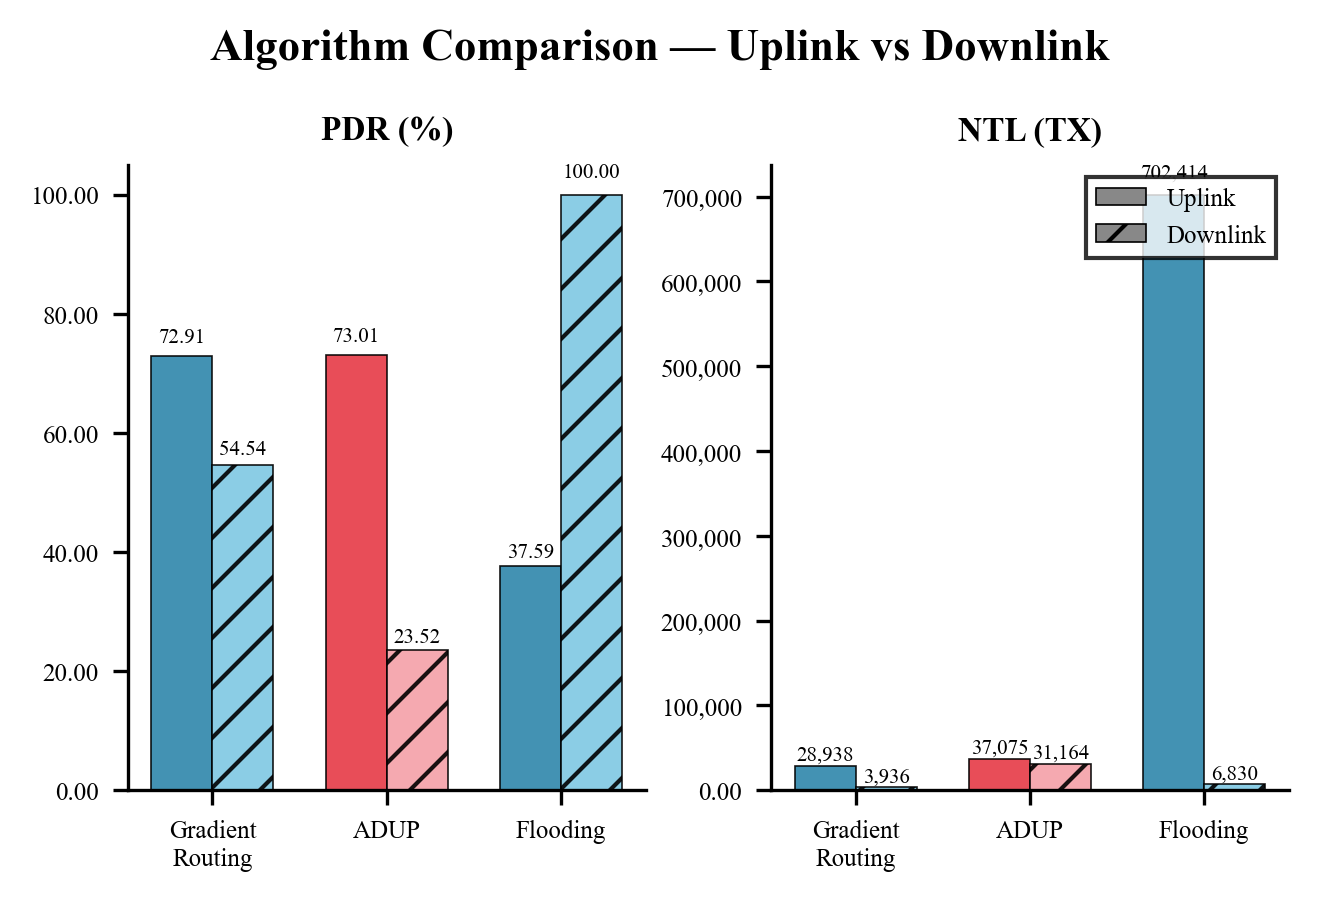
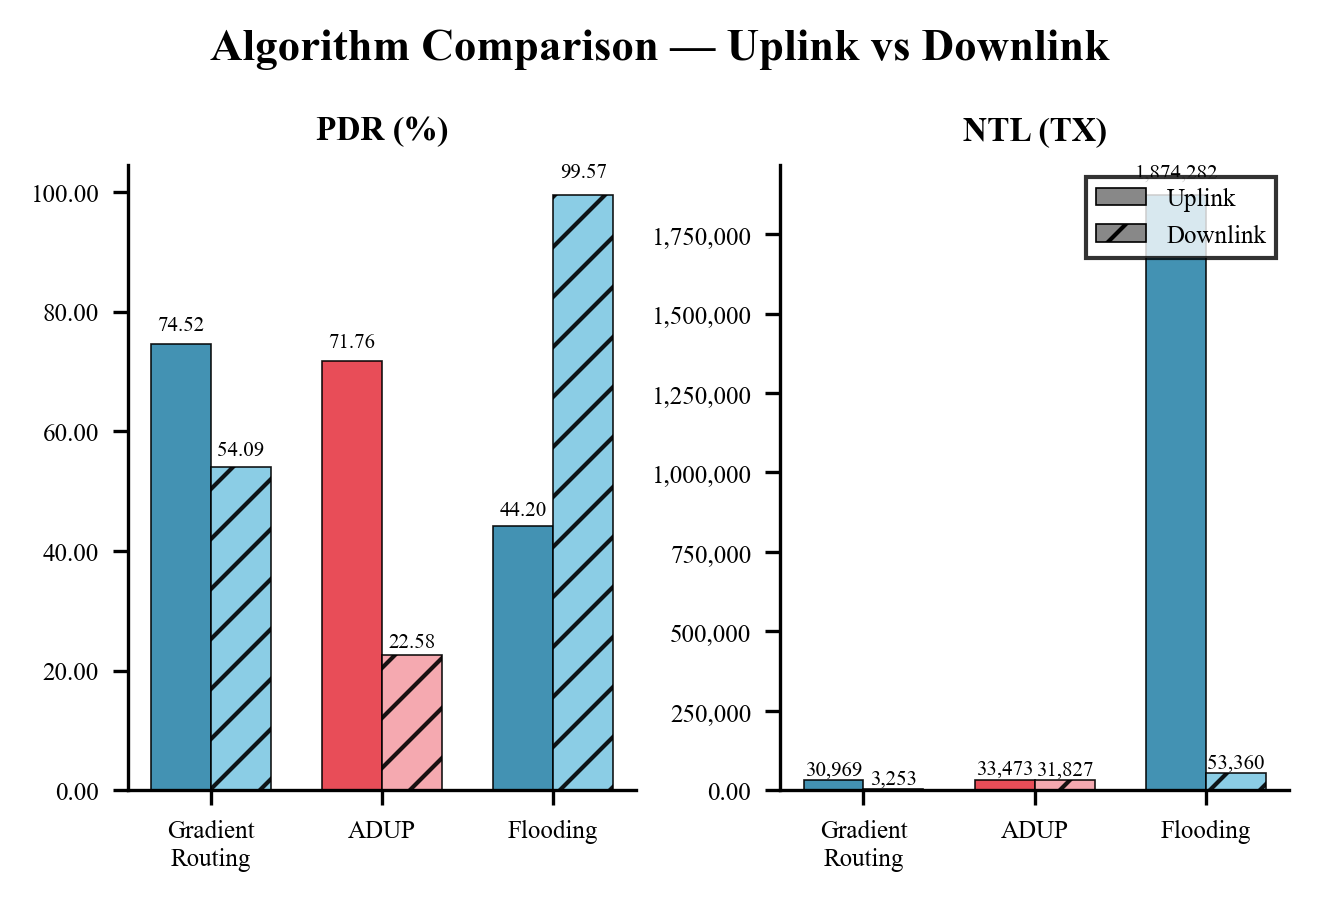
update

diff --git a/models/channel.py b/models/channel.py
@@ -6,14 +6,18 @@ class RicianChannelModel:
     """Indoor Rician Fading channel model backed by a pre-computed LUT.
 
     Requirements: 3.1, 3.2, 3.3, 3.4, 3.5
+
+    Collision model:
+    Trong thực tế BLE/IEEE 802.15.4, khi nhiều node phát đồng thời trên cùng
+    kênh, xác suất collision tăng theo số lượng transmitter đồng thời.
+    success_prob *= collision_penalty ^ n_interferers
     """
 
-    def __init__(self, lut_path: str):
-        """Load the LUT from *lut_path*.
-
-        Raises:
-            FileNotFoundError: if the file does not exist.
-            ValueError: if required columns are missing.
+    def __init__(self, lut_path: str, collision_penalty: float = 0.85):
+        """
+        collision_penalty: hệ số giảm success_prob cho mỗi interferer đồng thời.
+                           0.85 ≈ thực nghiệm BLE Mesh indoor.
+                           1.0  = tắt collision model (lý tưởng).
         """
         try:
             df = pd.read_csv(lut_path)
@@ -28,10 +32,11 @@ class RicianChannelModel:
             raise ValueError(f"LUT CSV is missing columns: {missing}")
 
         self._distances: np.ndarray = df["Distance_m"].to_numpy(dtype=float)
-        self._probs: np.ndarray = df["Success_Prob"].to_numpy(dtype=float)
+        self._probs: np.ndarray     = df["Success_Prob"].to_numpy(dtype=float)
+        self._collision_penalty: float = collision_penalty
 
     def get_success_prob(self, distance: float) -> float:
-        """Return the success probability for *distance* via linear interpolation.
+        """Return success probability for distance via linear interpolation.
 
         Returns 0.0 when distance exceeds the maximum value in the LUT.
         Requirements: 3.3, 3.4
@@ -40,11 +45,16 @@ class RicianChannelModel:
             return 0.0
         return float(np.interp(distance, self._distances, self._probs))
 
-    def transmit(self, distance: float) -> bool:
-        """Simulate one transmission attempt at *distance*.
+    def transmit(self, distance: float, concurrent_tx: int = 1) -> bool:
+        """Simulate one transmission attempt.
 
-        Returns True on success, False on failure.
+        concurrent_tx: jumlah transmitter aktif di sekitar receiver pada saat ini,
+                       termasuk sender ini sendiri. Default = 1 (no collision).
+
         Requirements: 3.5
         """
-        prob = self.get_success_prob(distance)
-        return bool(np.random.random() < prob)
+        base_prob = self.get_success_prob(distance)
+        # n_interferers = concurrent transmitters selain sender sendiri
+        n_interferers = max(0, concurrent_tx - 1)
+        effective_prob = base_prob * (self._collision_penalty ** n_interferers)
+        return bool(np.random.random() < effective_prob)

diff --git a/protocols/flooding.py b/protocols/flooding.py
@@ -84,7 +84,9 @@ class FloodingNode:
             if not nb.is_alive():
                 continue
             routing.metrics.record_transmitted(is_hello=False)
-            self.env.process(nb._deliver(self.node, pkt, routing.channel))
+            # clone() copy path và tx_timestamps thành list độc lập,
+            # tránh shared state khi nhiều coroutine chạy song song
+            self.env.process(nb._deliver(self.node, pkt.clone(), routing.channel))
 
     # -----------------------------------------------------------------------
     # Uplink generator
@@ -143,6 +145,10 @@ class FloodingNode:
     # -----------------------------------------------------------------------
 
     def on_receive(self, pkt: DataPacket) -> None:
+        # Chặn: không xử lý gói tin do chính node này sinh ra (loop-back)
+        if pkt.source_id == self.node.id:
+            return
+
         # --- DOWNLINK: packet originated from sink ---
         if pkt.source_id == self.routing.network.sink.id and not self.node.is_sink:
             if self._is_dl_dup(pkt.id):
@@ -151,8 +157,8 @@ class FloodingNode:
 
             # Every non-sink node is a "destination" for broadcast downlink
             pkt.on_forward(self.node.id)
-            self.routing.metrics.record_delivered(
-                pkt.id, self.env.now, hop_count=pkt.hop_count
+            self.routing.metrics.record_bc_delivered(
+                pkt.id, self.node.id, self.env.now
             )
 
             # Keep rebroadcasting so further nodes can also receive
@@ -213,21 +219,8 @@ class FloodingRouting:
             node._on_receive = self._on_receive
 
     def run_setup_phase(self) -> None:
-        from collections import deque
-        sink = self.network.sink
-        sink.gradient_level = 0.0
-        visited: set[int] = {sink.id}
-        q = deque([sink])
-        while q:
-            cur = q.popleft()
-            for nb in cur.neighbors:
-                if nb.id not in visited:
-                    nb.gradient_level = float(cur.gradient_level + 1)
-                    visited.add(nb.id)
-                    q.append(nb)
-        for node in self.network.nodes:
-            if node.id not in visited:
-                node.gradient_level = float("inf")
+        # Flooding thuần túy — không cần khởi tạo topology hay gradient.
+        pass
 
     def start_forwarding(self) -> None:
         for node in self.network.nodes:

diff --git a/main.py b/main.py
@@ -151,7 +151,19 @@ def _print_summary_labeled(cfg, network, metrics: MetricsCollector,
     n_created   = len(raw["created"])
     n_delivered = len(raw["delivered"])
     n_dropped   = metrics.get_total_drops()
-    total_e     = sum(n.energy_consumed for n in network.nodes)
+    n_non_sink  = sum(1 for n in network.nodes if not n.is_sink)
+
+    is_flooding_downlink = "flooding" in label.lower() and "[downlink]" in label.lower()
+
+    if is_flooding_downlink:
+        pdr      = metrics.get_pdr_broadcast(n_non_sink)
+        bc_count = raw["bc_deliveries_count"]
+        pdr_str  = (f"  PDR (broadcast)   : {pdr:.2f} %"
+                    f"  ({bc_count} node-deliveries / "
+                    f"{n_created} pkts × {n_non_sink} nodes)")
+    else:
+        pdr     = metrics.get_pdr()
+        pdr_str = f"  PDR               : {pdr:.2f} %"
 
     sep  = "=" * 60
     dash = "-" * 60
@@ -163,7 +175,7 @@ def _print_summary_labeled(cfg, network, metrics: MetricsCollector,
     print(f"  Packets delivered : {n_delivered}")
     print(f"  Packets dropped   : {n_dropped}")
     print(dash)
-    print(f"  PDR               : {metrics.get_pdr():.2f} %")
+    print(pdr_str)
     print(f"  NTL (total TX)    : {metrics.get_ntl():,}")
     print(sep)
 
@@ -391,7 +403,10 @@ def compare_algorithms(cfg=settings) -> None:
 
             env     = simpy.Environment()
             network = Network(env, cfg)
-            channel = RicianChannelModel(cfg.LUT_PATH)
+            channel = RicianChannelModel(
+                cfg.LUT_PATH,
+                collision_penalty=getattr(cfg, "COLLISION_PENALTY_PER_TX", 0.85),
+            )
             metrics = MetricsCollector()
             routing = ProtocolClass(network, channel, metrics, cfg)
 
@@ -416,10 +431,15 @@ def compare_algorithms(cfg=settings) -> None:
             _print_summary_labeled(cfg, network, metrics,
                                    f"{label} [{direction}]")
 
+            is_flooding_dl = (label == "Flooding" and direction == "downlink")
+            n_non_sink     = sum(1 for n in network.nodes if not n.is_sink)
+            pdr_val = (metrics.get_pdr_broadcast(n_non_sink)
+                       if is_flooding_dl else metrics.get_pdr())
+
             if label not in results:
                 results[label] = {}
             results[label][direction] = {
-                "pdr":       metrics.get_pdr(),
+                "pdr":       pdr_val,
                 "ntl":       metrics.get_ntl(),
                 "avg_rtt":   metrics.get_avg_rtt(),
                 "avg_hops":  metrics.get_avg_hop_count(),

diff --git a/utils/metrics.py b/utils/metrics.py
@@ -13,6 +13,10 @@ class MetricsCollector:
         self._delivered:  dict[int, float] = {}  # pkt_id → delivery_time
         self._hop_counts: dict[int, int]   = {}  # pkt_id → hop_count on delivery
 
+        # Downlink broadcast tracking (flooding-specific, không ảnh hưởng PDR chính)
+        # (pkt_id, node_id) → delivery_time — đếm số node duy nhất nhận được mỗi gói
+        self._bc_deliveries: dict[tuple, float] = {}
+
         # Transmission counter (all attempts: HELLO + DATA, success + fail)
         self._total_transmissions: int = 0
 
@@ -50,6 +54,14 @@ class MetricsCollector:
         self._delivered[packet_id] = delivery_time
         self._hop_counts[packet_id] = hop_count
 
+    def record_bc_delivered(self, packet_id: int, node_id: int,
+                             delivery_time: float) -> None:
+        """Broadcast downlink delivery — mỗi (pkt_id, node_id) chỉ tính 1 lần.
+        Dùng riêng cho flooding downlink, không ảnh hưởng get_pdr()."""
+        key = (packet_id, node_id)
+        if key not in self._bc_deliveries:
+            self._bc_deliveries[key] = delivery_time
+
     def record_drop(self, reason: str) -> None:
         key = reason if reason in self._drops else "other"
         self._drops[key] += 1
@@ -66,6 +78,17 @@ class MetricsCollector:
         if not self._created:
             return 0.0
         return len(self._delivered) / len(self._created) * 100.0
+
+    def get_pdr_broadcast(self, num_non_sink_nodes: int) -> float:
+        """PDR cho broadcast downlink: unique (pkt_id, node_id) nhận được
+        chia cho (số gói tạo ra × số non-sink node).
+        Chỉ có ý nghĩa khi dùng với flooding downlink."""
+        unique_pkts = len({pkt_id for pkt_id, _ in self._bc_deliveries})
+        n_created   = len(self._created)
+        total_expected = n_created * num_non_sink_nodes
+        if total_expected == 0:
+            return 0.0
+        return len(self._bc_deliveries) / total_expected * 100.0
 
     def get_ntl(self) -> int:
         """Total transmission attempts (HELLO + DATA)."""
@@ -122,6 +145,7 @@ class MetricsCollector:
             "created":              dict(self._created),
             "delivered":            dict(self._delivered),
             "hop_counts":           dict(self._hop_counts),
+            "bc_deliveries_count":  len(self._bc_deliveries),
             "total_transmissions":  self._total_transmissions,
             "hello_transmissions":  self._hello_transmissions,
             "drops":                dict(self._drops),

diff --git a/models/packet.py b/models/packet.py
@@ -111,6 +111,24 @@ class DataPacket(Packet):
         self.last_hop   = forwarder_id
         self.path.append(forwarder_id)
 
+    def clone(self) -> "DataPacket":
+        """Bản sao độc lập cho flooding — nhanh hơn deepcopy."""
+        obj = object.__new__(DataPacket)
+        obj.id            = self.id
+        obj.source_id     = self.source_id
+        obj.dest_id       = self.dest_id
+        obj.size_bytes    = self.size_bytes
+        obj.ptype         = self.ptype
+        obj.creation_time = self.creation_time
+        obj.hop_count     = self.hop_count
+        obj.last_hop      = self.last_hop
+        obj.drop_reason   = self.drop_reason
+        obj.tx_timestamps = list(self.tx_timestamps)
+        obj.ttl           = self.ttl
+        obj.payload       = self.payload
+        obj.path          = list(self.path)
+        return obj
+
     def is_ttl_expired(self) -> bool:
         return self.ttl <= 0
 

diff --git a/models/node.py b/models/node.py
@@ -180,9 +180,17 @@ class SensorNode:
         sender.bytes_transmitted += packet.size_bytes
         packet.tx_timestamps.append(self.env.now)
 
-        # 4. Rician LUT channel decision
+        # 4. Rician LUT channel decision — đếm concurrent TX trong vùng lân cận
         dist = sender.distance_to(self)
-        success = channel.transmit(dist)
+        # Đếm số neighbor của receiver đang transmit đồng thời
+        # (trong window CCA_MIN_SPACING_MS) — đây là số interferer thực tế
+        now = self.env.now
+        cca_window = self.settings.CCA_MIN_SPACING_MS / 1000.0
+        concurrent = sum(
+            1 for nb in self.neighbors
+            if nb.id != sender.id and (now - nb.last_tx_time) < cca_window
+        ) + 1  # +1 cho sender hiện tại
+        success = channel.transmit(dist, concurrent_tx=concurrent)
         if not success:
             self.packets_dropped_rssi += 1
             if isinstance(packet, (DataPacket, BeaconPacket)):

diff --git a/config/settings.py b/config/settings.py
@@ -96,6 +96,14 @@ ADUP_HYSTERESIS_DB:           float = 5.0    # Hysteresis added to Old RSSI
 # ---------------------------------------------------------------------------
 FLOODING_TTL: int      = 12   # max hops for pure flooding (caps coroutine count)
 N_FLOOD_WORKERS: int   = 8    # parallel TX workers per node
+
+# ---------------------------------------------------------------------------
+# Channel collision model
+# ---------------------------------------------------------------------------
+# Mỗi concurrent transmitter trong CCA window làm giảm success_prob theo hệ số này.
+# 0.85 cho kết quả gần với thực nghiệm BLE Mesh flooding (~70-85% PDR).
+# Tăng lên 1.0 để tắt collision penalty (lý tưởng hoá).
+COLLISION_PENALTY_PER_TX: float = 0.85
 RANDOM_SEED: int = 42   # set to None to disable fixed seed: Default = 42
 
 # ---------------------------------------------------------------------------